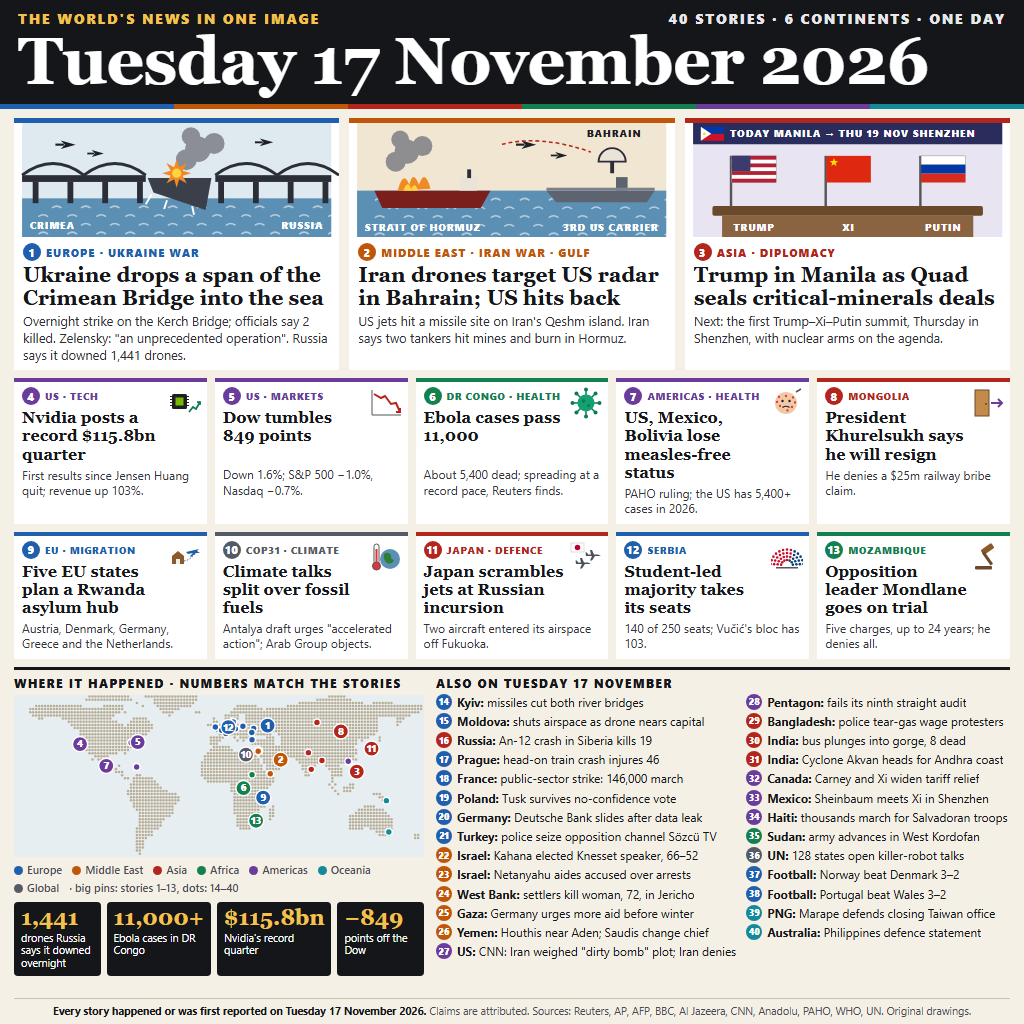
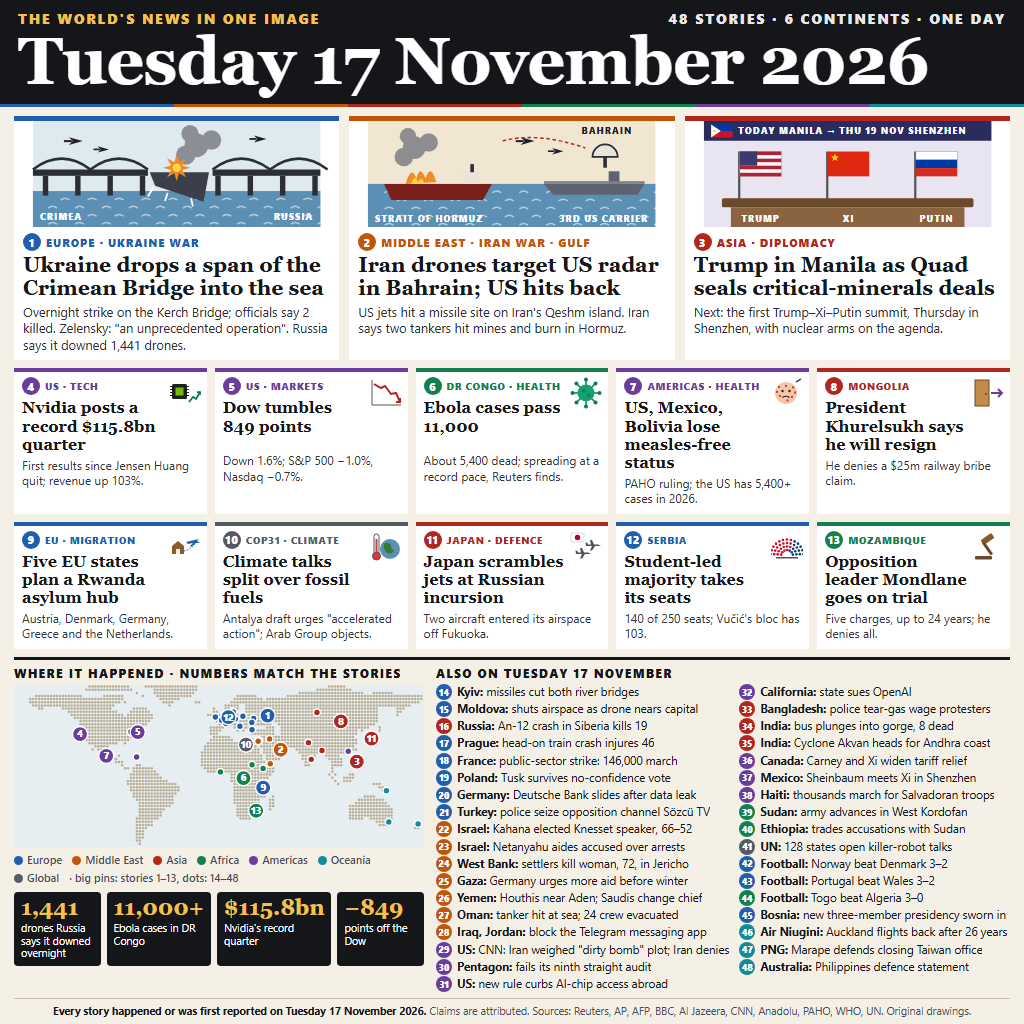
v6: widen the page to 48 stories
Adds eight more stories reported on 17 November 2026 and tightens
spacing so the list, map and footer all fit.

diff --git a/design/page.html b/design/page.html
@@ -25,7 +25,7 @@
 
   .heroes { display: grid; grid-template-columns: repeat(3, 1fr); gap: 10px; }
   .hero { background: #fff; border-top: 5px solid var(--c); display: flex; flex-direction: column; }
-  .hero .art { height: 114px; overflow: hidden; } .hero .art svg { width: 100%; height: 100%; display: block; }
+  .hero .art { height: 106px; overflow: hidden; } .hero .art svg { width: 100%; height: 100%; display: block; }
   .hero .txt { padding: 6px 9px 7px; }
   .hero h2 { font-size: 21px; line-height: 1.08; margin: 3px 0 4px; }
   .hero p { font-size: 12.8px; line-height: 1.3; color: #2e2e35; }
@@ -34,7 +34,7 @@
   .tile { background: #fff; border-top: 4px solid var(--c); padding: 5px 8px 7px; position: relative; }
   .tile .ic { position: absolute; top: 5px; right: 6px; width: 32px; height: 32px; } .tile .ic svg { width: 100%; height: 100%; }
   .tile .tag { font-size: 10px; letter-spacing: .06em; white-space: nowrap; padding-right: 38px; }
-  .tile h3 { font-size: 16.2px; line-height: 1.12; margin-top: 4px; padding-right: 34px; min-height: 54px; }
+  .tile h3 { font-size: 16.2px; line-height: 1.12; margin-top: 4px; padding-right: 34px; min-height: 50px; }
   .tile p { font-size: 12px; line-height: 1.28; color: #33333b; margin-top: 4px; }
 
   .lower { flex: 1; display: grid; grid-template-columns: 410px 1fr; gap: 12px; border-top: 3px solid var(--rule); padding-top: 6px; min-height: 0; }
@@ -42,9 +42,9 @@
   .mapbox svg { width: 410px; height: 162px; display: block; background: #e7eef2; }
   .legend { display: flex; flex-wrap: wrap; gap: 3px 10px; margin-top: 5px; font-size: 11px; font-weight: 600; color: var(--muted); }
   .legend i { display: inline-block; width: 9px; height: 9px; border-radius: 50%; margin-right: 4px; vertical-align: -1px; }
-  .also { columns: 2; column-gap: 10px; font-size: 11.9px; line-height: 1.22; }
+  .also { columns: 2; column-gap: 10px; font-size: 11.6px; line-height: 1.18; }
   .also li > span { overflow: hidden; text-overflow: clip; }
-  .also li { list-style: none; display: flex; gap: 5px; break-inside: avoid; margin-bottom: 4.2px; white-space: nowrap; }
+  .also li { list-style: none; display: flex; gap: 5px; break-inside: avoid; margin-bottom: 2.2px; white-space: nowrap; }
   .numbers { display: grid; grid-template-columns: repeat(4, 1fr); gap: 6px; margin-top: 7px; }
   .numbers div { background: var(--ink); color: #fff; border-radius: 4px; padding: 5px 7px 6px; }
   .numbers b { display: block; font-family: Georgia, serif; font-size: 22px; line-height: 1; color: #f2c14e; }
@@ -58,7 +58,7 @@
 </head>
 <body>
 <header>
-  <div class="row"><span class="l">The world's news in one image</span><span class="r">40 stories · 6 continents · one day</span></div>
+  <div class="row"><span class="l">The world's news in one image</span><span class="r">48 stories · 6 continents · one day</span></div>
   <h1 class="serif">Tuesday 17 November 2026</h1>
 </header>
 <div class="stripe"></div>
@@ -131,8 +131,12 @@ const ALSO = [
   ['me', 'West Bank', 'settlers kill woman, 72, in Jericho', 35.4, 31.9],
   ['me', 'Gaza', 'Germany urges more aid before winter', 34.4, 31.5],
   ['me', 'Yemen', 'Houthis near Aden; Saudis change chief', 45, 12.8],
+  ['me', 'Oman', 'tanker hit at sea; 24 crew evacuated', 57.5, 23.6],
+  ['me', 'Iraq, Jordan', 'block the Telegram messaging app', 44.4, 33.3],
   ['am', 'US', 'CNN: Iran weighed "dirty bomb" plot; Iran denies', -77, 38.9],
   ['am', 'Pentagon', 'fails its ninth straight audit', -77.1, 38.6],
+  ['am', 'US', 'new rule curbs AI-chip access abroad', -77.3, 39.3],
+  ['am', 'California', 'state sues OpenAI', -121.5, 38.6],
   ['as', 'Bangladesh', 'police tear-gas wage protesters', 90.4, 23.8],
   ['as', 'India', 'bus plunges into gorge, 8 dead', 78.5, 30.3],
   ['as', 'India', 'Cyclone Akvan heads for Andhra coast', 81, 16.5],
@@ -140,9 +144,13 @@ const ALSO = [
   ['am', 'Mexico', 'Sheinbaum meets Xi in Shenzhen', 113.5, 23.2],
   ['am', 'Haiti', 'thousands march for Salvadoran troops', -72.3, 18.5],
   ['af', 'Sudan', 'army advances in West Kordofan', 29, 12],
+  ['af', 'Ethiopia', 'trades accusations with Sudan', 38.7, 9],
   ['gl', 'UN', '128 states open killer-robot talks', 6.1, 46.2],
   ['eu', 'Football', 'Norway beat Denmark 3–2', 12.5, 55.7],
   ['eu', 'Football', 'Portugal beat Wales 3–2', -3.2, 51.5],
+  ['af', 'Football', 'Togo beat Algeria 3–0', 1.2, 6.1],
+  ['eu', 'Bosnia', 'new three-member presidency sworn in', 18.4, 43.9],
+  ['oc', 'Air Niugini', 'Auckland flights back after 26 years', 174.8, -36.9],
   ['oc', 'PNG', 'Marape defends closing Taiwan office', 147, -9.4],
   ['oc', 'Australia', 'Philippines defence statement', 149.1, -35.3],
 ];
@@ -170,7 +178,7 @@ document.getElementById('also').innerHTML = ALSO.map(([r, place, text, lon, lat]
 // small dots first, numbered pins on top
 drawWorldMap(document.getElementById('map'), [...pins.filter(p => p.small), ...pins.filter(p => !p.small)], { step: 2.6, dot: 1.25 });
 document.getElementById('legend').innerHTML = ['eu', 'me', 'as', 'af', 'am', 'oc', 'gl']
-  .map(k => `<span><i style="background:${R[k][2]}"></i>${R[k][0]}</span>`).join('') + '<span>· big pins: stories 1–13, dots: 14–40</span>';
+  .map(k => `<span><i style="background:${R[k][2]}"></i>${R[k][0]}</span>`).join('') + '<span>· big pins: stories 1–13, dots: 14–48</span>';
 </script>
 </body>
 </html>

diff --git a/README.md b/README.md
@@ -8,9 +8,9 @@ An entry for the make.fun bounty [Sum up 17 November's world news in one image](
 
 ![entry](entry.png)
 
-A one-page front page of 40 stories from six continents: three illustrated lead
+A one-page front page of 48 stories from six continents: three illustrated lead
 stories, ten tiles, a dot-matrix world map with numbered pins, the day in numbers
-and a list of 27 more stories. Every story happened or was first reported on
+and a list of 35 more stories. Every story happened or was first reported on
 Tuesday 17 November 2026.
 
 ## How it works
